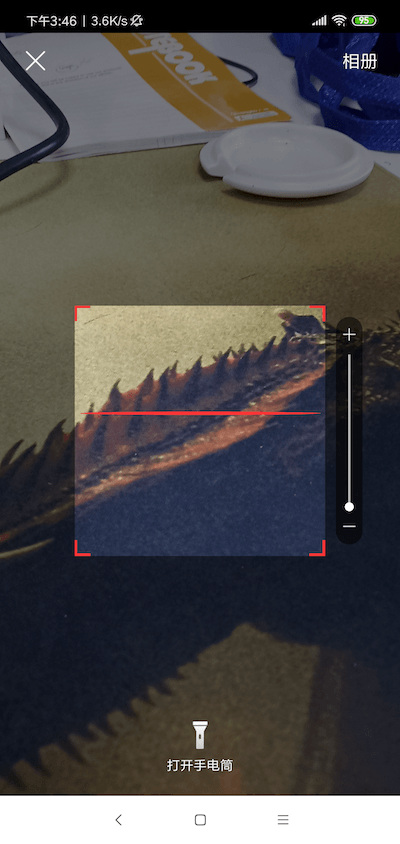
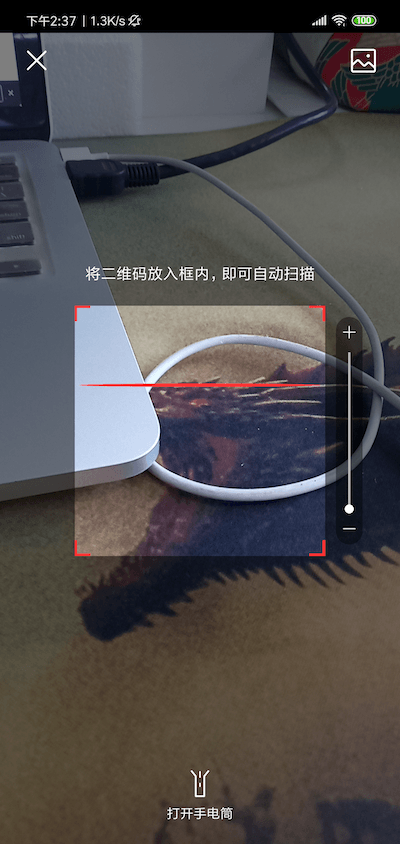
修改README

diff --git a/libraryzxing/src/main/java/com/google/zxing/client/android/model/MNScanConfig.java b/libraryzxing/src/main/java/com/google/zxing/client/android/model/MNScanConfig.java
@@ -42,6 +42,10 @@ public class MNScanConfig implements Serializable {
     private LaserStyle laserStyle;
     //扫描提示文案
     private String scanHintText;
+    //扫描提示文案颜色
+    private String scanHintTextColor;
+    //扫描提示文案字体大小
+    private int scanHintTextSize;
     //开启Activity动画
     private int activityOpenAnime;
     //关闭Activity动画
@@ -58,6 +62,8 @@ public class MNScanConfig implements Serializable {
     private int gridScanLineColumn;
     //网格扫描线的高度
     private int gridScanLineHeight;
+    //显示闪光灯
+    private boolean showLightController = true;
 
     private MNScanConfig() {
 
@@ -79,6 +85,9 @@ public class MNScanConfig implements Serializable {
         bgColor = builder.bgColor;
         gridScanLineColumn = builder.gridScanLineColumn;
         gridScanLineHeight = builder.gridScanLineHeight;
+        showLightController = builder.showLightController;
+        scanHintTextColor = builder.scanHintTextColor;
+        scanHintTextSize = builder.scanHintTextSize;
     }
 
     public LaserStyle getLaserStyle() {
@@ -193,6 +202,30 @@ public class MNScanConfig implements Serializable {
         this.gridScanLineHeight = gridScanLineHeight;
     }
 
+    public boolean isShowLightController() {
+        return showLightController;
+    }
+
+    public void setShowLightController(boolean showLightController) {
+        this.showLightController = showLightController;
+    }
+
+    public String getScanHintTextColor() {
+        return scanHintTextColor;
+    }
+
+    public void setScanHintTextColor(String scanHintTextColor) {
+        this.scanHintTextColor = scanHintTextColor;
+    }
+
+    public int getScanHintTextSize() {
+        return scanHintTextSize;
+    }
+
+    public void setScanHintTextSize(int scanHintTextSize) {
+        this.scanHintTextSize = scanHintTextSize;
+    }
+
     public static class Builder {
         private boolean showPhotoAlbum = true;
         private boolean showBeep = true;
@@ -210,6 +243,11 @@ public class MNScanConfig implements Serializable {
         private int gridScanLineColumn;
         //网格扫描线的高度
         private int gridScanLineHeight;
+        private boolean showLightController = true;
+        //扫描提示文案颜色
+        private String scanHintTextColor;
+        //扫描提示文案字体大小
+        private int scanHintTextSize;
 
         public MNScanConfig builder() {
             return new MNScanConfig(this);
@@ -283,6 +321,21 @@ public class MNScanConfig implements Serializable {
 
         public Builder setGridScanLineHeight(int gridScanLineHeight) {
             this.gridScanLineHeight = gridScanLineHeight;
+            return this;
+        }
+
+        public Builder isShowLightController(boolean showLightController) {
+            this.showLightController = showLightController;
+            return this;
+        }
+
+        public Builder setScanHintTextColor(String scanHintTextColor) {
+            this.scanHintTextColor = scanHintTextColor;
+            return this;
+        }
+
+        public Builder setScanHintTextSize(int scanHintTextSize) {
+            this.scanHintTextSize = scanHintTextSize;
             return this;
         }
 

diff --git a/app/src/main/java/com/maning/zxingcodedemo/MainActivity.java b/app/src/main/java/com/maning/zxingcodedemo/MainActivity.java
@@ -66,7 +66,7 @@ public class MainActivity extends AppCompatActivity {
     }
 
     public void scanCode(View view) {
-        requestCameraPerm();
+        //需要判断有没有权限
         MNScanConfig scanConfig = new MNScanConfig.Builder()
                 //设置完成震动
                 .isShowVibrate(false)
@@ -74,12 +74,16 @@ public class MainActivity extends AppCompatActivity {
                 .isShowBeep(true)
                 //显示相册功能
                 .isShowPhotoAlbum(true)
+                //显示闪光灯
+                .isShowLightController(true)
                 //打开扫描页面的动画
                 .setActivityOpenAnime(R.anim.activity_anmie_in)
                 //退出扫描页面动画
                 .setActivityExitAnime(R.anim.activity_anmie_out)
                 //自定义文案
-                .setScanHintText("请将二维码放入框中...")
+                .setScanHintText("请将二维码放入框中")
+                .setScanHintTextColor("#FFFF00")
+                .setScanHintTextSize(16)
                 //扫描线的颜色
                 .setScanColor("#FFFF00")
                 //是否显示缩放控制器
@@ -88,6 +92,12 @@ public class MainActivity extends AppCompatActivity {
                 .setZoomControllerLocation(MNScanConfig.ZoomControllerLocation.Bottom)
                 //扫描线样式
                 .setLaserStyle(MNScanConfig.LaserStyle.Grid)
+                //背景颜色
+                .setBgColor("#33FF0000")
+                //网格扫描线的列数
+                .setGridScanLineColumn(30)
+                //网格高度
+                .setGridScanLineHeight(150)
                 //自定义遮罩
                 .setCustomShadeViewLayoutID(R.layout.layout_custom_view, new MNCustomViewBindCallback() {
                     @Override
@@ -144,12 +154,6 @@ public class MainActivity extends AppCompatActivity {
                         });
                     }
                 })
-                //背景颜色
-                .setBgColor("#33FF0000")
-                //网格扫描线的列数
-                .setGridScanLineColumn(30)
-                //网格高度
-                .setGridScanLineHeight(150)
                 .builder();
         MNScanManager.startScan(this, scanConfig, new MNScanCallback() {
             @Override

diff --git a/libraryzxing/src/main/java/com/google/zxing/client/android/CaptureActivity.java b/libraryzxing/src/main/java/com/google/zxing/client/android/CaptureActivity.java
@@ -24,7 +24,6 @@ import android.content.pm.PackageManager;
 import android.graphics.Bitmap;
 import android.graphics.Color;
 import android.graphics.Rect;
-import android.net.Uri;
 import android.os.Build;
 import android.os.Bundle;
 import android.os.Handler;
@@ -307,7 +306,10 @@ public final class CaptureActivity extends Activity implements SurfaceHolder.Cal
         zoomControllerFlag = mnScanConfig.isShowZoomController();
         zoomControllerLocation = mnScanConfig.getZoomControllerLocation();
 
-        viewfinderView.setHintText(mnScanConfig.getScanHintText());
+        //扫描文字配置
+        viewfinderView.setHintText(mnScanConfig.getScanHintText(), mnScanConfig.getScanHintTextColor(), mnScanConfig.getScanHintTextSize());
+
+        //扫描线相关配置
         if (!TextUtils.isEmpty(scanColor)) {
             viewfinderView.setLaserColor(Color.parseColor(scanColor));
         }
@@ -315,14 +317,6 @@ public final class CaptureActivity extends Activity implements SurfaceHolder.Cal
         if (!TextUtils.isEmpty(maskColor)) {
             viewfinderView.setMaskColor(Color.parseColor(maskColor));
         }
-        if (!mnScanConfig.isShowPhotoAlbum()) {
-            btn_photo.setVisibility(View.GONE);
-        }
-        if (exitAnime == 0) {
-            exitAnime = R.anim.mn_scan_activity_bottom_out;
-        }
-
-        //网格扫描线相关配置
         viewfinderView.setGridScannerColumn(mnScanConfig.getGridScanLineColumn());
         viewfinderView.setGridScannerHeight(mnScanConfig.getGridScanLineHeight());
 
@@ -338,6 +332,23 @@ public final class CaptureActivity extends Activity implements SurfaceHolder.Cal
         } else {
             rl_default_menu.setVisibility(View.VISIBLE);
         }
+
+        //闪光灯配置
+        boolean showLightController = mnScanConfig.isShowLightController();
+        if (showLightController) {
+            btn_scan_light.setVisibility(View.VISIBLE);
+        } else {
+            btn_scan_light.setVisibility(View.GONE);
+        }
+
+        //其他配置
+        if (!mnScanConfig.isShowPhotoAlbum()) {
+            btn_photo.setVisibility(View.GONE);
+        }
+        if (exitAnime == 0) {
+            exitAnime = R.anim.mn_scan_activity_bottom_out;
+        }
+
     }
 
     /**

diff --git a/libraryzxing/src/main/java/com/google/zxing/client/android/ViewfinderView.java b/libraryzxing/src/main/java/com/google/zxing/client/android/ViewfinderView.java
@@ -29,7 +29,6 @@ import android.graphics.RectF;
 import android.graphics.Shader;
 import android.text.TextUtils;
 import android.util.AttributeSet;
-import android.util.Log;
 import android.view.View;
 
 import com.google.zxing.client.android.camera.CameraManager;
@@ -54,7 +53,9 @@ public final class ViewfinderView extends View {
     private int laserColor;
 
     private Rect frame;
-    private static String hintMsg;
+    private String hintMsg;
+    private String hintTextColor = "#FFFFFF";
+    private int hintTextSize = 14;
     private int linePosition = 0;
     private int margin;
     private int laserLineW;
@@ -82,7 +83,7 @@ public final class ViewfinderView extends View {
         hintMsg = resources.getString(R.string.mn_scan_hint_text);
         //文字
         paintText.setColor(Color.WHITE);
-        paintText.setTextSize(CommonUtils.dip2px(context, 14));
+        paintText.setTextSize(CommonUtils.sp2px(context, hintTextSize));
         paintText.setTextAlign(Paint.Align.CENTER);
         //四角
         paintLine.setColor(laserColor);
@@ -156,14 +157,22 @@ public final class ViewfinderView extends View {
 
     /**
      * 设置文案
-     *
-     * @param msg
      */
-    public void setHintText(String msg) {
-        hintMsg = msg;
-        if (TextUtils.isEmpty(hintMsg)) {
-            hintMsg = "";
+    public void setHintText(String hintMsg, String hintTextColor, int hintTextSize) {
+        //文字
+        if (!TextUtils.isEmpty(hintMsg)) {
+            this.hintMsg = hintMsg;
         }
+        //文字颜色
+        if (!TextUtils.isEmpty(hintTextColor)) {
+            this.hintTextColor = hintTextColor;
+        }
+        //文字大小
+        if (hintTextSize > 0) {
+            this.hintTextSize = hintTextSize;
+        }
+        paintText.setColor(Color.parseColor(this.hintTextColor));
+        paintText.setTextSize(CommonUtils.sp2px(context, this.hintTextSize));
     }
 
     public void setCameraManager(CameraManager cameraManager) {

diff --git a/README.md b/README.md
@@ -1,15 +1,15 @@
-#   ZXingCode 二维码扫描
+#   ZXingCode 快速集成二维码扫描
 
-##  快速集成二维码扫描，生成二维码，可配置相册，闪光灯，相机可以调整焦距放大缩小，自定义扫描线颜色，自定义背景颜色，自定义遮罩层（ZXing 3.3.3）
+##  快速集成二维码扫描，生成二维码，可配置相册，闪光灯，相机可以调整焦距放大缩小，自定义扫描线颜色，自定义背景颜色，自定义遮罩层（ZXing 3.4.0）
 [![](https://jitpack.io/v/maning0303/MNZXingCode.svg)](https://jitpack.io/#maning0303/MNZXingCode)
 
 ##  功能：
     1：生成二维码（带Logo）
     2：二维码扫描
     3：相册中选取图片识别
-    4：开启闪光灯
+    4：闪光灯开关
     5: 相机可以调整焦距放大缩小
-    6: 完全自定义遮罩层
+    6: 完全自定义遮罩层，高度自定义
 
 ## 截图:
 ![image](https://github.com/maning0303/ZXingCodeDemo/blob/master/screenshots/mn_zxing_screenshot_001.png)
@@ -74,18 +74,32 @@
                             .isShowBeep(true)
                             //显示相册功能
                             .isShowPhotoAlbum(true)
+                            //显示闪光灯
+                            .isShowLightController(true)
                             //打开扫描页面的动画
                             .setActivityOpenAnime(R.anim.activity_anmie_in)
                             //退出扫描页面动画
                             .setActivityExitAnime(R.anim.activity_anmie_out)
                             //自定义文案
-                            .setScanHintText("请将二维码放入框中...")
+                            .setScanHintText("请将二维码放入框中")
+                            //自定义文案颜色
+                            .setScanHintTextColor("#FFFF00")
+                            //自定义文案大小（单位sp）
+                            .setScanHintTextSize(16)
                             //扫描线的颜色
                             .setScanColor("#FFFF00")
                             //是否显示缩放控制器
                             .isShowZoomController(true)
                             //显示缩放控制器位置
                             .setZoomControllerLocation(MNScanConfig.ZoomControllerLocation.Bottom)
+                            //扫描线样式
+                            .setLaserStyle(MNScanConfig.LaserStyle.Grid)
+                            //背景颜色
+                            .setBgColor("#33FF0000")
+                            //网格扫描线的列数
+                            .setGridScanLineColumn(30)
+                            //网格高度
+                            .setGridScanLineHeight(150)
                             //自定义遮罩
                             .setCustomShadeViewLayoutID(R.layout.layout_custom_view, new MNCustomViewBindCallback() {
                                 @Override
@@ -93,8 +107,6 @@
                                     //TODO:通过findviewById 获取View
                                 }
                             })
-                            //背景颜色
-                            .setBgColor("#33FF0000")
                             .builder();
             MNScanManager.startScan(this, scanConfig, new MNScanCallback() {
                 @Override
@@ -149,8 +161,11 @@
 ```
 
 ## 版本记录：
-    v2.1.1:（未发布）
-        1.网格扫描线支持设置列数和高度
+    v2.1.1(未发布):
+        1.支持网格扫描线设置列数和高度
+        2.支持隐藏默认闪光灯开关
+        3.支持修改提示文案颜色和大小
+        4.UI优化显示
 
     v2.1.0:
         1.支持自定义遮罩层
